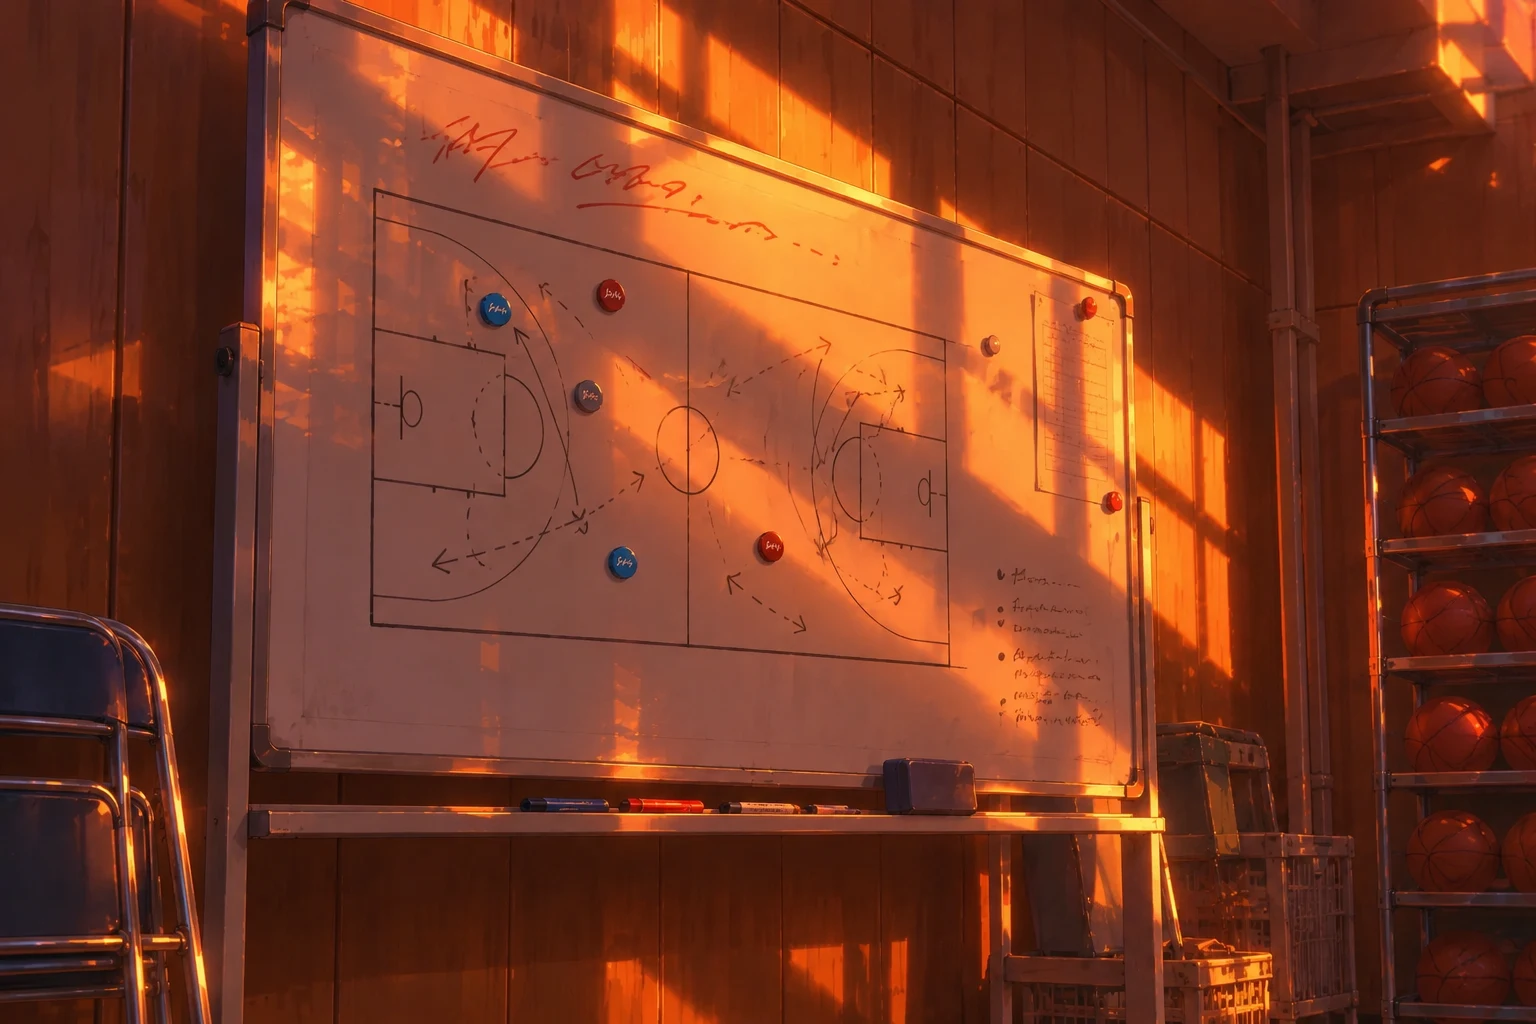
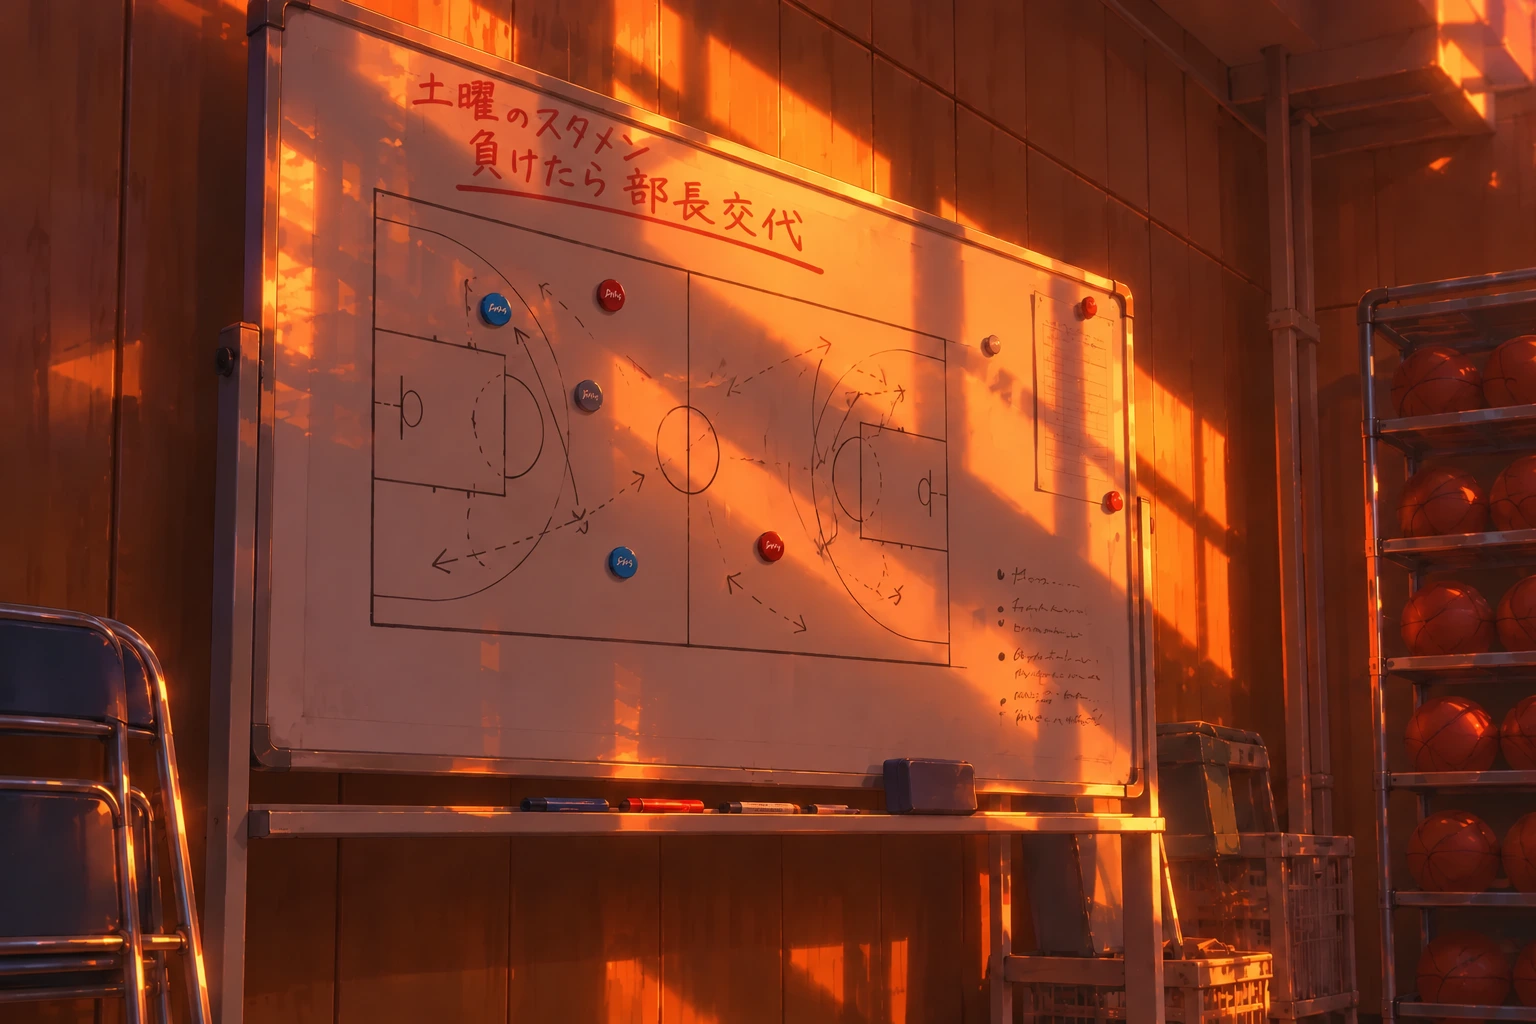
4章：作戦ボードの顧問の赤い字を読めるように、ケイの登場場面の地の文を短く

diff --git a/index.html b/index.html
@@ -3716,7 +3716,7 @@
                    ['ケイ', '……っと。平気平気。土曜、大会だからさ', 'normal'],
                    ['ケイ', 'みんなはもう帰ったよ。今日は延長、なしになったから。……片付けと鍵は、部長の仕事', 'normal'],
                    ['ケイ', 'ちょっと疲れただけ。少し休んだら、片付けるから。……今はそっとしといてくれると助かる', 'normal'],
-                   ['', 'それきりケイは、真剣な顔で、足もとのボールに目を落とした。体育館の奥の作戦ボードのほうは、見ようとしなかった。', 'serious'],
+                   ['', 'それきりケイは、真剣な顔で、足もとのボールをじっと見つめていた。', 'serious'],
                    '【操作】気になる場所をタップすると調べられます。この部屋の時間は30分。調べるたびに時計が3分進み、18:00になるとチャイムが鳴ります。話しかけても時間は進みません。']);
       } else {
         await say(['……また、この体育館だ。', '扉は、今度も開かない。', '17:30。ボールかごのそばの床に、ケイが座りこんでいる。',
